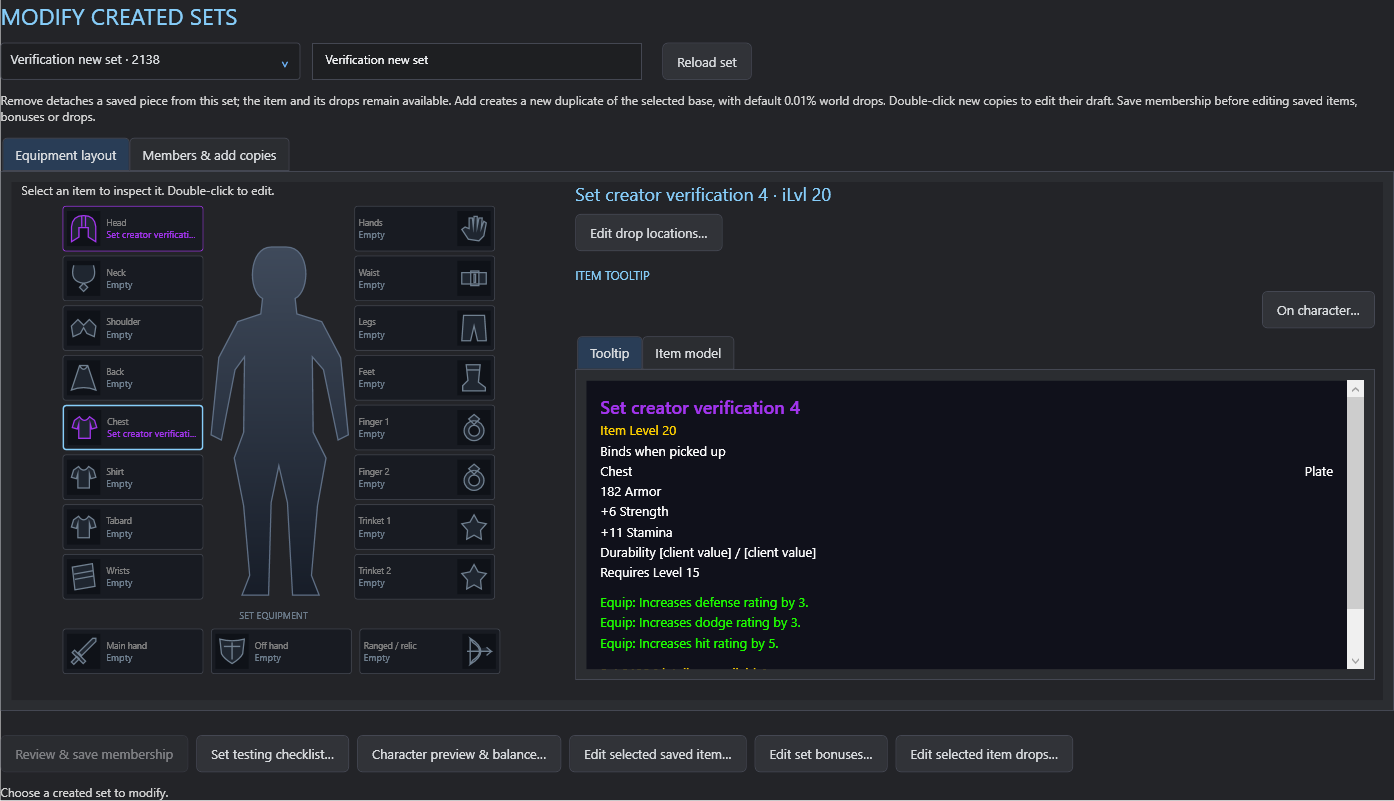
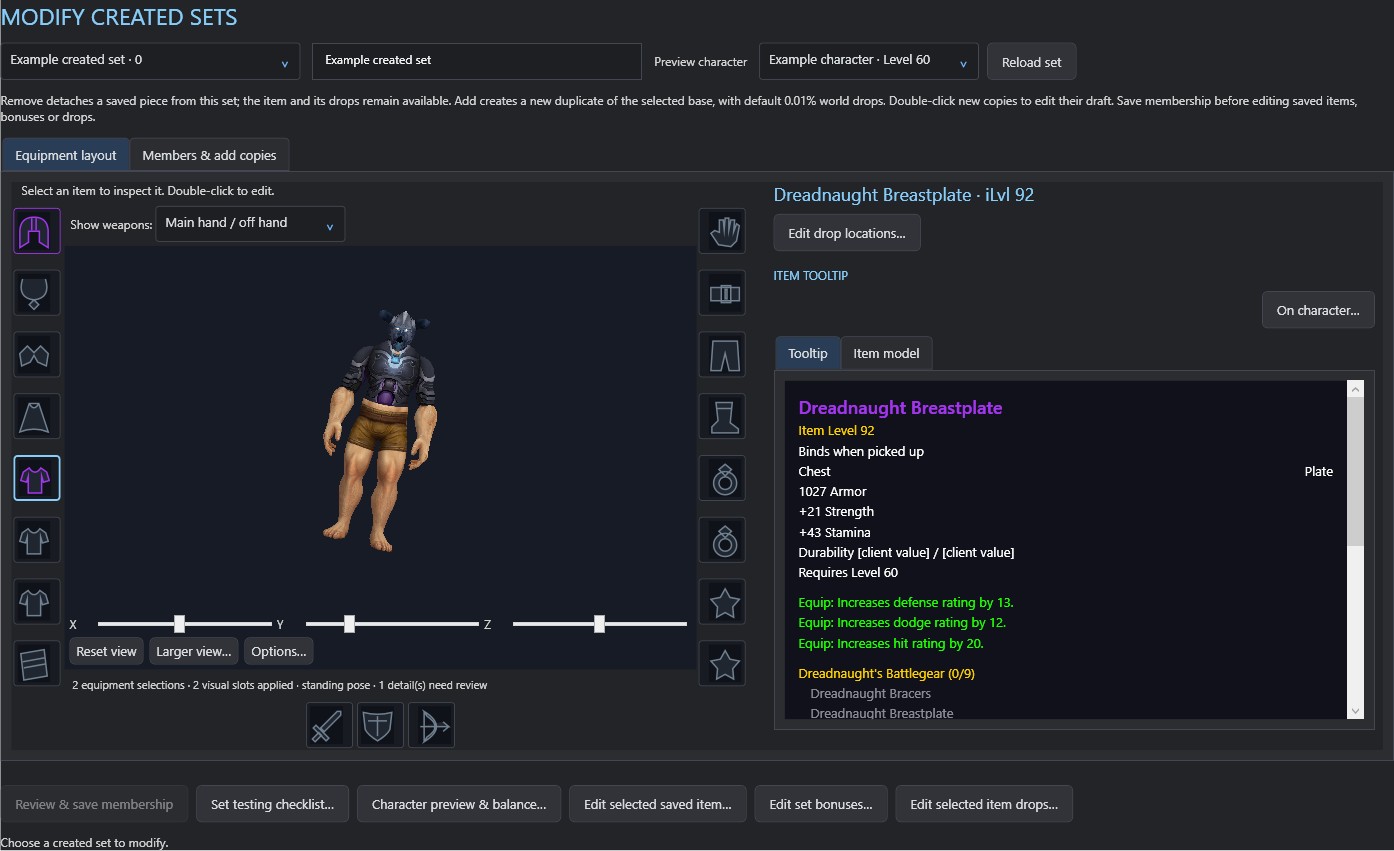
Show draft set members on a saved character in Modify Created Sets

diff --git a/src/WoWItemEditor/Views/Sets/CreatedSetsWindow.cs b/src/WoWItemEditor/Views/Sets/CreatedSetsWindow.cs
@@ -13,6 +13,14 @@ internal sealed record CreatedSetPiece(int ExistingId,CatalogItem Item,CloneBlue
 }
 internal sealed class CreatedSetsWindow : Window
 {
+    private readonly ComboBox previewCharacter=new(){Width=220,Margin=new Thickness(12,0,0,0)};
+    private bool choosingCharacter,closed;
+    private int characterRequest;
+    private readonly TaskCompletionSource ready=new();
+    internal Task Ready=>ready.Task;
+    internal Task ModelLoading=>equipment.ModelLoading;
+    internal CharacterScene? ModelScene=>equipment.ModelScene;
+    internal ModelCharacter? PreviewProfile=>equipment.PreviewProfile;
     private CatalogResult catalog;
     private ReferenceCatalog refs;
     private CreatedSetSession? session;
@@ -33,18 +41,30 @@ internal sealed class CreatedSetsWindow : Window
     private readonly int? initialSetId;
     internal bool Saved {get;private set;}
     internal bool FooterVisible=>save.TransformToAncestor((FrameworkElement)Content).TransformBounds(new Rect(save.RenderSize)).Bottom<=((FrameworkElement)Content).ActualHeight;
-    internal CreatedSetsWindow(CatalogResult catalog,ReferenceCatalog refs,CreatedSetSession? verification=null,int? initialSetId=null)
+    internal CreatedSetsWindow(CatalogResult catalog,ReferenceCatalog refs,CreatedSetSession? verification=null,int? initialSetId=null,CharacterInfo? selectedCharacter=null)
     {
-        this.catalog=catalog;this.refs=refs;this.initialSetId=initialSetId;kinds=new(catalog.Tooltips,true);Title="Modify created sets";Width=1450;Height=880;MinWidth=1100;MinHeight=700;Background=new SolidColorBrush(Color.FromRgb(35,36,40));WindowStartupLocation=WindowStartupLocation.CenterOwner;
+        equipment.EnableCharacterPreview();this.catalog=catalog;this.refs=refs;this.initialSetId=initialSetId;kinds=new(catalog.Tooltips,true);Title="Modify created sets";Width=1450;Height=930;MinWidth=1200;MinHeight=780;Background=new SolidColorBrush(Color.FromRgb(35,36,40));WindowStartupLocation=WindowStartupLocation.CenterOwner;
         var root=new DockPanel{Margin=new Thickness(20),Background=Background};Content=root;var heading=DesignerWindow.Text("MODIFY CREATED SETS",23);heading.Foreground=Brushes.LightSkyBlue;DockPanel.SetDock(heading,Dock.Top);root.Children.Add(heading);
-        var top=new WrapPanel{Margin=new Thickness(0,12,0,12)};DockPanel.SetDock(top,Dock.Top);root.Children.Add(top);top.Children.Add(sets);name.Margin=new Thickness(12,0,12,0);name.ToolTip="Set name";top.Children.Add(name);DesignerWindow.Button("Reload set",top).Click+=async(_,_)=>{if(ConfirmDiscard())await Select();};
+        var top=new WrapPanel{Margin=new Thickness(0,12,0,12)};DockPanel.SetDock(top,Dock.Top);root.Children.Add(top);top.Children.Add(sets);name.Margin=new Thickness(12,0,12,0);name.ToolTip="Set name";top.Children.Add(name);previewCharacter.ToolTip="Preview character · only this set’s equipment is shown";top.Children.Add(DesignerWindow.Text("Preview character",12));top.Children.Add(previewCharacter);previewCharacter.SelectionChanged+=async(_,_)=>{if(!choosingCharacter)await LoadPreviewCharacter();};DesignerWindow.Button("Reload set",top).Click+=async(_,_)=>{if(ConfirmDiscard())await Select();};
         var note=DesignerWindow.Text("Remove detaches a saved piece from this set; the item and its drops remain available. Add creates a new duplicate of the selected base, with default 0.01% world drops. Double-click new copies to edit their draft. Save membership before editing saved items, bonuses or drops.",12);DockPanel.SetDock(note,Dock.Top);note.Margin=new Thickness(0,0,0,12);root.Children.Add(note);
         DockPanel.SetDock(loadingProgress,Dock.Top);root.Children.Add(loadingProgress);DockPanel.SetDock(feedback,Dock.Bottom);root.Children.Add(feedback);var bottom=new WrapPanel{Margin=new Thickness(0,12,0,12)};DockPanel.SetDock(bottom,Dock.Bottom);root.Children.Add(bottom);bottom.Children.Add(save);DesignerWindow.Button("Set testing checklist…",bottom).Click+=async(_,_)=>{if(session is null||busy||!CanOpenEditor())return;await Run(async()=>{var review=new SetChecklistWindow(catalog,session.Id){Owner=this};review.ShowDialog();if(review.Saved){Saved=true;catalog=review.Catalog;refs=review.References??refs;await LoadSelected();Filter();}});};DesignerWindow.Button("Character preview & balance…",bottom).Click+=async(_,_)=>{if(session is null||busy||!CanOpenEditor())return;await Run(async()=>{var preview=new SetAnalysisWindow(catalog,session.Id){Owner=this};preview.ShowDialog();if(preview.Saved){Saved=true;catalog=preview.CatalogSnapshot;refs=await ReferenceCatalog.LoadAsync();await LoadSelected();Filter();}});};DesignerWindow.Button("Edit selected saved item…",bottom).Click+=async(_,_)=>await Edit(false);DesignerWindow.Button("Edit set bonuses…",bottom).Click+=async(_,_)=>await Edit(true);DesignerWindow.Button("Edit selected item drops…",bottom).Click+=async(_,_)=>await EditDrops();
-        root.Children.Add(body);var grid=new Grid();grid.ColumnDefinitions.Add(new());grid.ColumnDefinitions.Add(new(){Width=new GridLength(16)});grid.ColumnDefinitions.Add(new());body.Children.Add(views);views.Items.Add(new TabItem{Header="Equipment layout",Content=equipment});views.Items.Add(new TabItem{Header="Members & add copies",Content=grid});equipment.SelectionChanged+=row=>{if(row?.Key is CreatedSetPiece piece)members.SelectedItem=piece;};equipment.EditRequested+=async row=>{if(row.Key is CreatedSetPiece piece){members.SelectedItem=piece;await Edit(false);}};equipment.DropRequested+=async row=>{if(row.Key is CreatedSetPiece piece){members.SelectedItem=piece;await EditDrops();}};equipment.EmptySlotSelected+=target=>{slot.SelectedItem=slot.Items.Cast<FilterChoice>().FirstOrDefault(c=>c.Id==target)??slot.Items[0];views.SelectedIndex=1;};members.SelectionChanged+=(_,_)=>{if(members.SelectedItem is CreatedSetPiece piece){if(!Equals(equipment.Selection?.Key,piece))equipment.SelectKey(piece);TooltipView.Fill(memberPreview,ItemTooltip.Build(piece.Item,catalog.Tooltips,catalog.Items.ToDictionary(i=>i.Id)));ItemVisualPreview.Outfit(memberPreview,equipment.Equipped.ToDictionary(p=>p.Key,p=>p.Value.Item));}else TooltipView.Fill(memberPreview,[new("Select a member",ItemTooltip.Gray)]);};members.MouseDoubleClick+=async(_,_)=>await Edit(false);
+        root.Children.Add(body);var grid=new Grid();grid.ColumnDefinitions.Add(new());grid.ColumnDefinitions.Add(new(){Width=new GridLength(16)});grid.ColumnDefinitions.Add(new());body.Children.Add(views);views.Items.Add(new TabItem{Header="Equipment layout",Content=equipment});views.Items.Add(new TabItem{Header="Members & add copies",Content=grid});equipment.SelectionChanged+=row=>{if(row?.Key is CreatedSetPiece piece)members.SelectedItem=piece;};equipment.EditRequested+=async row=>{if(row.Key is CreatedSetPiece piece){members.SelectedItem=piece;await Edit(false);}};equipment.DropRequested+=async row=>{if(row.Key is CreatedSetPiece piece){members.SelectedItem=piece;await EditDrops();}};equipment.EmptySlotSelected+=target=>{slot.SelectedItem=slot.Items.Cast<FilterChoice>().FirstOrDefault(c=>c.Id==target)??slot.Items[0];views.SelectedIndex=1;};members.SelectionChanged+=(_,_)=>{if(members.SelectedItem is CreatedSetPiece piece){if(!Equals(equipment.Selection?.Key,piece))equipment.SelectKey(piece);TooltipView.Fill(memberPreview,ItemTooltip.Build(piece.Item,catalog.Tooltips,catalog.Items.ToDictionary(i=>i.Id)));ItemVisualPreview.Outfit(memberPreview,equipment.Equipped.ToDictionary(p=>p.Key,p=>p.Value.Item),equipment.PreviewProfile);}else TooltipView.Fill(memberPreview,[new("Select a member",ItemTooltip.Gray)]);};members.MouseDoubleClick+=async(_,_)=>await Edit(false);
         var left=new DockPanel();grid.Children.Add(left);var remove=new Button{Content="Remove selected member from draft",Margin=new Thickness(0,0,0,10)};DockPanel.SetDock(remove,Dock.Top);left.Children.Add(remove);remove.Click+=(_,_)=>{if(members.SelectedItem is CreatedSetPiece row){draft.Remove(row);Update();}};members.ItemsSource=draft;var memberSplit=new Grid();memberSplit.RowDefinitions.Add(new());memberSplit.RowDefinitions.Add(new());memberSplit.Children.Add(members);var memberVisual=DesignerWindow.Preview(memberPreview,"SELECTED SET MEMBER");Grid.SetRow(memberVisual,1);memberSplit.Children.Add(memberVisual);left.Children.Add(memberSplit);
-        var right=new DockPanel();Grid.SetColumn(right,2);grid.Children.Add(right);var filters=new WrapPanel{Margin=new Thickness(0,0,0,10)};DockPanel.SetDock(filters,Dock.Top);right.Children.Add(filters);search.ToolTip="Find base item by name or ID";filters.Children.Add(search);slot.Margin=new Thickness(10,0,0,0);filters.Children.Add(slot);filters.Children.Add(kinds);var add=new Button{Content="Add selected base as a new copy",Margin=new Thickness(0,0,0,10)};DockPanel.SetDock(add,Dock.Top);right.Children.Add(add);var basePanel=new StackPanel();var baseSplit=new Grid();baseSplit.RowDefinitions.Add(new());baseSplit.RowDefinitions.Add(new());baseSplit.Children.Add(bases);var baseVisual=DesignerWindow.Preview(basePanel,"BASE ITEM APPEARANCE");Grid.SetRow(baseVisual,1);baseSplit.Children.Add(baseVisual);right.Children.Add(baseSplit);bases.SelectionChanged+=(_,_)=>{if(bases.SelectedItem is CatalogItem item){TooltipView.Fill(basePanel,ItemTooltip.Build(item,catalog.Tooltips,catalog.Items.ToDictionary(i=>i.Id)));var worn=equipment.Equipped.ToDictionary(p=>p.Key,p=>p.Value.Item);int target=(slot.SelectedItem as FilterChoice)?.Id??-1;if(target<0)target=GearDesign.Targets(item).FirstOrDefault(-1);if(target>=0)worn[target]=item;ItemVisualPreview.Outfit(basePanel,worn);}else TooltipView.Fill(basePanel,[new("Select a base item",ItemTooltip.Gray)]);};add.Click+=async(_,_)=>{if(bases.SelectedItem is CatalogItem item&&session is not null)await Run(async()=>{var source=await ItemCloning.LoadAsync(item.Id);var copyDraft=new CatalogItem(new(source.Item.Current.Fields,StringComparer.OrdinalIgnoreCase){["ItemSet"]=session.Id.ToString()});var piece=new CreatedSetPiece(0,copyDraft,source);draft.Add(piece);Update();equipment.SelectKey(piece);views.SelectedIndex=0;feedback.Text="New copy added to draft. Its source remains unchanged.";});};
-        slot.ItemsSource=new[]{new FilterChoice(-1,"All equipment slots")}.Concat(GearDesign.EquipmentSlots.Where(p=>p.Key is not (3 or 18)).Select(p=>new FilterChoice(p.Key,p.Value))).ToArray();slot.SelectedIndex=0;search.TextChanged+=(_,_)=>Filter();slot.SelectionChanged+=(_,_)=>Filter();kinds.Changed+=Filter;name.TextChanged+=(_,_)=>Update();sets.SelectionChanged+=async(_,_)=>{if(loading)return;if(!ConfirmDiscard()){loading=true;sets.SelectedItem=sets.Items.Cast<ContentChoice>().FirstOrDefault(s=>s.Id==session?.Id);loading=false;return;}await Select();};save.Click+=async(_,_)=>await Save();Loaded+=async(_,_)=>{if(verification is null)await LoadList();else{loading=true;sets.ItemsSource=new[]{new ContentChoice(verification.Id,verification.Name)};sets.SelectedIndex=0;loading=false;session=verification;foreach(var item in session.Members.Values)draft.Add(new(item.Item.Current.Id,item.Item.Current,null));name.Text=session.Name;Update();}};Closing+=(_,e)=>{if(busy||!ConfirmDiscard())e.Cancel=true;};Filter();
+        var right=new DockPanel();Grid.SetColumn(right,2);grid.Children.Add(right);var filters=new WrapPanel{Margin=new Thickness(0,0,0,10)};DockPanel.SetDock(filters,Dock.Top);right.Children.Add(filters);search.ToolTip="Find base item by name or ID";filters.Children.Add(search);slot.Margin=new Thickness(10,0,0,0);filters.Children.Add(slot);filters.Children.Add(kinds);var add=new Button{Content="Add selected base as a new copy",Margin=new Thickness(0,0,0,10)};DockPanel.SetDock(add,Dock.Top);right.Children.Add(add);var basePanel=new StackPanel();var baseSplit=new Grid();baseSplit.RowDefinitions.Add(new());baseSplit.RowDefinitions.Add(new());baseSplit.Children.Add(bases);var baseVisual=DesignerWindow.Preview(basePanel,"BASE ITEM APPEARANCE");Grid.SetRow(baseVisual,1);baseSplit.Children.Add(baseVisual);right.Children.Add(baseSplit);bases.SelectionChanged+=(_,_)=>{if(bases.SelectedItem is CatalogItem item){TooltipView.Fill(basePanel,ItemTooltip.Build(item,catalog.Tooltips,catalog.Items.ToDictionary(i=>i.Id)));var worn=equipment.Equipped.ToDictionary(p=>p.Key,p=>p.Value.Item);int target=(slot.SelectedItem as FilterChoice)?.Id??-1;if(target<0)target=GearDesign.Targets(item).FirstOrDefault(-1);if(target>=0)worn[target]=item;ItemVisualPreview.Outfit(basePanel,worn,equipment.PreviewProfile);}else TooltipView.Fill(basePanel,[new("Select a base item",ItemTooltip.Gray)]);};add.Click+=async(_,_)=>{if(bases.SelectedItem is CatalogItem item&&session is not null)await Run(async()=>{var source=await ItemCloning.LoadAsync(item.Id);var copyDraft=new CatalogItem(new(source.Item.Current.Fields,StringComparer.OrdinalIgnoreCase){["ItemSet"]=session.Id.ToString()});var piece=new CreatedSetPiece(0,copyDraft,source);draft.Add(piece);Update();equipment.SelectKey(piece);views.SelectedIndex=0;feedback.Text="New copy added to draft. Its source remains unchanged.";});};
+        slot.ItemsSource=new[]{new FilterChoice(-1,"All equipment slots")}.Concat(GearDesign.EquipmentSlots.Where(p=>p.Key is not (3 or 18)).Select(p=>new FilterChoice(p.Key,p.Value))).ToArray();slot.SelectedIndex=0;search.TextChanged+=(_,_)=>Filter();slot.SelectionChanged+=(_,_)=>Filter();kinds.Changed+=Filter;name.TextChanged+=(_,_)=>Update();sets.SelectionChanged+=async(_,_)=>{if(loading)return;if(!ConfirmDiscard()){loading=true;sets.SelectedItem=sets.Items.Cast<ContentChoice>().FirstOrDefault(s=>s.Id==session?.Id);loading=false;return;}await Select();};save.Click+=async(_,_)=>await Save();Loaded+=async(_,_)=>{var preview=LoadPreviewCharacters(selectedCharacter);if(verification is null)await LoadList();else{loading=true;sets.ItemsSource=new[]{new ContentChoice(verification.Id,verification.Name)};sets.SelectedIndex=0;loading=false;session=verification;foreach(var item in session.Members.Values)draft.Add(new(item.Item.Current.Id,item.Item.Current,null));name.Text=session.Name;Update();}await preview;ready.TrySetResult();};Closing+=(_,e)=>{if(busy||!ConfirmDiscard())e.Cancel=true;else closed=true;};Filter();
     }
+    private async Task LoadPreviewCharacters(CharacterInfo? initial)
+    {
+        try{var characters=await CharacterRepository.ListAsync();if(closed)return;choosingCharacter=true;previewCharacter.ItemsSource=characters;previewCharacter.SelectedItem=characters.FirstOrDefault(c=>c.Guid==initial?.Guid)??characters.FirstOrDefault();choosingCharacter=false;await LoadPreviewCharacter();}catch(Exception ex){choosingCharacter=false;equipment.PreviewPending("Could not load characters: "+ex.Message);}
+    }
+    private async Task LoadPreviewCharacter()
+    {
+        int token=++characterRequest;equipment.PreviewPending("Loading selected character appearance…");if(previewCharacter.SelectedItem is not CharacterInfo selected){equipment.PreviewPending("No saved characters available. Set editing still works.");return;}
+        try{var profile=await ModelCharacterRepository.Load(selected);if(token!=characterRequest||closed)return;equipment.SetPreviewCharacter(profile);}catch(Exception ex){if(token==characterRequest&&!closed)equipment.PreviewPending("Appearance unavailable: "+ex.Message);}
+    }
+    internal void UseDocumentationPreview(){choosingCharacter=true;previewCharacter.ItemsSource=new[]{new CharacterInfo(0,"Example character",60,1,false,0)};previewCharacter.SelectedIndex=0;choosingCharacter=false;equipment.SetPreviewCharacter(new(1,0,"Example character"));}
+    internal void RemovePreviewMember(int id){var row=draft.FirstOrDefault(p=>p.ExistingId==id);if(row is not null){draft.Remove(row);Update();}}
+    internal void RestorePreviewMembers(){if(session is null)return;draft.Clear();foreach(var member in session.Members.Values)draft.Add(new(member.Item.Current.Id,member.Item.Current,null));Update();}
     private bool Dirty=>session is not null&&(name.Text.Trim()!=session.Name||draft.Any(p=>p.ExistingId==0)||!draft.Where(p=>p.ExistingId>0).Select(p=>p.ExistingId).Order().SequenceEqual(session.Members.Keys.Order()));
     private bool ConfirmDiscard()=>!Dirty||MessageBox.Show(this,"Discard unsaved membership changes?","Unsaved set draft",MessageBoxButton.YesNo,MessageBoxImage.Question)==MessageBoxResult.Yes;
     private async Task Run(Func<Task> work){if(busy)return;busy=true;body.IsEnabled=sets.IsEnabled=save.IsEnabled=false;loadingProgress.Visibility=Visibility.Visible;feedback.Text="Loading set data… Please wait.";try{await System.Windows.Threading.Dispatcher.Yield(System.Windows.Threading.DispatcherPriority.Render);await work();}catch(Exception ex){feedback.Text=ex.Message;}finally{busy=false;loadingProgress.Visibility=Visibility.Collapsed;body.IsEnabled=sets.IsEnabled=true;Update();}}

diff --git a/tests/WoWItemEditor.Verification/MainWindow.SetCreatorVerification.cs b/tests/WoWItemEditor.Verification/MainWindow.SetCreatorVerification.cs
@@ -30,12 +30,13 @@ public partial class MainWindow
             var pendingBoss=world.Bosses.First(b=>b.CreatureId==11502);var pendingBossPlan=BossDrops.Plan(world,sourceA.Item.Current,[pendingBoss.Key],10m);
             var oldDrops=await WorldDrops.Capture(db,tx,new([createdItems[0]]));string membershipId=await CreatedSets.SaveCore(db,tx,membership,"Revised verification set",[createdItems[1]],[sourceA],reviewedPlans:[pendingBossPlan],additionDrafts:[new(new(sourceA.Item.Current.Fields,StringComparer.OrdinalIgnoreCase){["Display"]="Edited pending member copy"})]);var membershipOp=await ContentEditing.ReadAsync(db,tx,membershipId);var membershipAfter=JsonSerializer.Deserialize<ItemSnapshot>(membershipOp.After)!;var newMember=int.Parse(membershipAfter.Tables["new_set"].Single()["ItemID2"]!);Assert(newMember!=22416&&!createdItems.Contains(newMember),"Adding a member always allocates a fresh duplicate");Assert(membershipAfter.Tables[$"piece_{newMember}_item_sparse"].Single()["Display"]=="Edited pending member copy","Pending member item edits are saved on the new copy");Assert(membershipAfter.Tables["world_loot"].Count==1&&membershipAfter.Tables["world_loot"].Single()["Entry"]==pendingBoss.LootId.ToString()&&membershipAfter.Tables["world_loot"].Single()["Chance"]=="10","Pending new member saves only selected boss drops, with no world drops");Assert((await ItemEditing.LoadAsync(createdItems[0],db,tx)).Current.Number("ItemSet")==0,"Removing a member preserves its item and clears set assignment");Assert(HistoryActions.Canonical(new(oldDrops))==HistoryActions.Canonical(new(await WorldDrops.Capture(db,tx,new([createdItems[0]])))),"Removing a member preserves its loot");Assert(membershipAfter.Tables["new_set"].Single()["Name"]=="Revised verification set","Created set rename persists");
             bool membershipStale=false;try{await CreatedSets.SaveCore(db,tx,membership,"Stale name",[createdItems[1]],[sourceA]);}catch(InvalidOperationException ex)when(ex.Message.StartsWith("Conflict:")){membershipStale=true;}Assert(membershipStale,"Stale membership saves are rejected");await ContentEditing.ToggleCoreAsync(db,tx,membershipOp);Assert((await ItemEditing.LoadAsync(createdItems[0],db,tx)).Current.Number("ItemSet")==createdSet,"Membership revert reattaches removed item");var membershipInactive=await ContentEditing.ReadAsync(db,tx,membershipId);await ContentEditing.ToggleCoreAsync(db,tx,membershipInactive);Assert((await ItemEditing.LoadAsync(newMember,db,tx)).Current.Number("ItemSet")==createdSet,"Membership reapply restores the same added copy");
-            var modifyWindow=new CreatedSetsWindow(catalog,refs,membership){Owner=this};modifyWindow.Show();await RenderEditorWindow(modifyWindow,"modify-created-sets-preview");modifyWindow.Close();
+            var modifyWindow=new CreatedSetsWindow(catalog,refs,membership){Owner=this};modifyWindow.Show();await modifyWindow.Ready;await modifyWindow.ModelLoading;if(modifyWindow.PreviewProfile is not null){Assert(modifyWindow.ModelScene?.Equipped==membership.Members.Count,"Modify set renders only its member equipment");modifyWindow.RemovePreviewMember(membership.Members.Keys.First());await modifyWindow.ModelLoading;Assert(modifyWindow.ModelScene?.Equipped==membership.Members.Count-1,"Removing a member updates the 3D model");modifyWindow.RestorePreviewMembers();await modifyWindow.ModelLoading;Assert(modifyWindow.ModelScene?.Equipped==membership.Members.Count,"Restoring members updates the 3D model");}await RenderEditorWindow(modifyWindow,"modify-created-sets-preview");modifyWindow.Close();
             bool conflict=false;try{await ContentEditing.ToggleCoreAsync(db,tx,active);}catch(InvalidOperationException ex)when(ex.Message.StartsWith("Conflict:")){conflict=true;}Assert(conflict,"Old creation cannot overwrite later edits to a copy");
         }finally{await tx.RollbackAsync();}}finally{using var release=new MySqlCommand("SELECT RELEASE_LOCK('anocore_studio_forge')",db);await release.ExecuteScalarAsync();}
         Assert(HistoryActions.Canonical(await ItemCloning.CaptureAsync(db,null,22416,sourceA.SourceScope))==HistoryActions.Canonical(sourceA.SourceExpected),"Set tests left source data unchanged");
         var pieceEditor=new ItemEditorWindow(catalog,22416,draft:first.Draft){Owner=this};pieceEditor.Show();await pieceEditor.SelectAsync(22416);pieceEditor.SetDraftValue("Display","Draft-only renamed copy");Assert(pieceEditor.AcceptSetDraft().Name=="Draft-only renamed copy","Set-piece editor applies to a pending copy");pieceEditor.ResetDraft();pieceEditor.Close();Assert(HistoryActions.Canonical(await ItemCloning.CaptureAsync(db,null,22416,sourceA.SourceScope))==HistoryActions.Canonical(sourceA.SourceExpected),"Applying a piece draft does not write its base item");
         var previewHero=(await CharacterRepository.ListAsync()).FirstOrDefault();var window=new SetCreatorWindow(catalog,refs,previewHero){Owner=this};window.Show();await window.Ready;await window.ModelLoading;if(previewHero is not null){Assert(window.ModelScene is {Equipped:0},"An empty set renders the selected character with no saved equipment");var expectedProfile=await ModelCharacterRepository.Load(previewHero);Assert(window.PreviewProfile==expectedProfile||window.PreviewProfile?.Name==expectedProfile.Name&&window.PreviewProfile.Race==expectedProfile.Race&&window.PreviewProfile.Sex==expectedProfile.Sex&&window.ModelScene!.Customizations.All(p=>window.PreviewProfile!.Choices?.GetValueOrDefault(p.Key,p.Value)==p.Value),"Set creator uses selected saved character appearance");}window.SetVerificationName("Vanguard of the Dawn");await window.AddPiece(22416,4);await window.AddPiece(22418,0);window.AddVerificationBonus(bonuses[0]);await window.ModelLoading;if(previewHero is not null)Assert(window.ModelScene is {Equipped:2},"Added set copies appear on the selected character");await RenderEditorWindow(window,"set-creator-items-preview");window.SelectVerificationTab(1);await RenderEditorWindow(window,"set-creator-bonuses-preview");window.SelectVerificationTab(2);await RenderEditorWindow(window,"set-creator-drops-preview");window.SelectVerificationTab(0);window.UseDocumentationPreview();await window.ModelLoading;await RenderEditorWindow(window,"set-creator-documentation-preview");window.RemovePreviewPiece(4);await window.ModelLoading;if(previewHero is not null)Assert(window.ModelScene is {Equipped:1},"Removing a set piece removes it from the model");window.RemovePreviewPiece(0);await window.ModelLoading;if(previewHero is not null)Assert(window.ModelScene is {Equipped:0},"Clearing the set returns to an unequipped character");await RenderEditorWindow(window,"set-creator-empty-character-preview");window.DiscardVerification();window.Close();
-        await File.WriteAllTextAsync("artifacts/set-creator-verification.json",JsonSerializer.Serialize(new{createdSet,createdItems,eligibleCreatures=first.Drops.Targets.Count,lootRows,checks="Selected saved character appearance; empty draft has no saved gear; adding and removing copies updates 3D equipment (0,2,1,0); original sources preserved; new set and duplicate IDs; private bonus amounts; terrain-derived zones; level-appropriate outdoor loot, no Durotar/bosses/instances; 0.01% per piece; atomic creation; group revert/reapply; edited levels update loot and undo/redo restores it; later-edit conflicts; modify created set membership, duplicate additions, detach removals preserving drops, rename, stale save, revert/reapply; all game test writes rolled back"},new JsonSerializerOptions{WriteIndented=true}));
+        var documentationSession=new CreatedSetSession(0,"Example created set",new(){[22416]=sourceA,[22418]=sourceB},new(0,new(),[],new([])),new(new()),ContentEditing.Fingerprint());var documentationWindow=new CreatedSetsWindow(catalog,refs,documentationSession){Owner=this};documentationWindow.Show();await documentationWindow.Ready;documentationWindow.UseDocumentationPreview();await documentationWindow.ModelLoading;Assert(documentationWindow.ModelScene?.Equipped==2,"Documentation fixture renders two native source appearances");await RenderEditorWindow(documentationWindow,"modify-created-sets-documentation-preview");documentationWindow.Close();
+        await File.WriteAllTextAsync("artifacts/set-creator-verification.json",JsonSerializer.Serialize(new{createdSet,createdItems,eligibleCreatures=first.Drops.Targets.Count,lootRows,checks="Selected saved character appearance; empty draft has no saved gear; adding and removing copies updates 3D equipment (0,2,1,0); original sources preserved; new set and duplicate IDs; private bonus amounts; terrain-derived zones; level-appropriate outdoor loot, no Durotar/bosses/instances; 0.01% per piece; atomic creation; group revert/reapply; edited levels update loot and undo/redo restores it; later-edit conflicts; modify created set 3D member preview and removal/restoration; modify created set membership, duplicate additions, detach removals preserving drops, rename, stale save, revert/reapply; all game test writes rolled back"},new JsonSerializerOptions{WriteIndented=true}));
     }
 }

diff --git a/src/WoWItemEditor/Views/Shell/MainWindow.Editors.cs b/src/WoWItemEditor/Views/Shell/MainWindow.Editors.cs
@@ -6,7 +6,7 @@ public partial class MainWindow
     private bool editorLoading;
     private async Task EditCharacterItem(int id){if(loadedCatalog is null||editorLoading)return;editorLoading=true;try{var editor=new ItemEditorWindow(loadedCatalog,id){Owner=this};editor.ShowDialog();if(editor.Saved)await LoadCatalog();}catch(Exception ex){Status.Text="Could not edit item: "+ex.Message;}finally{editorLoading=false;}}
     private async void OpenSetAnalysis(object sender,RoutedEventArgs e){if(loadedCatalog is null||editorLoading)return;editorLoading=true;try{int? set=(ItemsGrid.SelectedItem as CatalogItem)?.Number("ItemSet");var preview=new SetAnalysisWindow(loadedCatalog,set>0?set:null){Owner=this};preview.ShowDialog();if(preview.Saved){InvalidateReferences();await LoadCatalog();}}catch(Exception ex){Status.Text=ex.Message;}finally{editorLoading=false;}}
-    private async void OpenCreatedSets(object sender,RoutedEventArgs e){if(loadedCatalog is null||editorLoading)return;editorLoading=true;try{Status.Text="Loading created sets… Preparing spells and set data.";await System.Windows.Threading.Dispatcher.Yield(System.Windows.Threading.DispatcherPriority.Render);var window=new CreatedSetsWindow(loadedCatalog,await EditorReferences()){Owner=this};window.ShowDialog();if(window.Saved){InvalidateReferences();await LoadCatalog();}}catch(Exception ex){Status.Text="Could not open created sets: "+ex.Message;}finally{editorLoading=false;}}
+    private async void OpenCreatedSets(object sender,RoutedEventArgs e){if(loadedCatalog is null||editorLoading)return;editorLoading=true;try{Status.Text="Loading created sets… Preparing spells and set data.";await System.Windows.Threading.Dispatcher.Yield(System.Windows.Threading.DispatcherPriority.Render);var window=new CreatedSetsWindow(loadedCatalog,await EditorReferences(),selectedCharacter:CharacterPicker.SelectedItem as CharacterInfo){Owner=this};window.ShowDialog();if(window.Saved){InvalidateReferences();await LoadCatalog();}}catch(Exception ex){Status.Text="Could not open created sets: "+ex.Message;}finally{editorLoading=false;}}
     private async void OpenSetCreator(object sender,RoutedEventArgs e)
     {
         if(loadedCatalog is null||editorLoading)return;editorLoading=true;try{var creator=new SetCreatorWindow(loadedCatalog,await EditorReferences(),CharacterPicker.SelectedItem as CharacterInfo){Owner=this};creator.ShowDialog();if(creator.Result is {} result){InvalidateReferences();await LoadCatalog();var designer=new DesignerWindow(loadedCatalog!,result.Items[0],2){Owner=this};designer.SelectCreatedSet(result.SetId);designer.ShowDialog();if(designer.Saved)await LoadCatalog();}}catch(Exception ex){Status.Text="Could not open set creator: "+ex.Message;}finally{editorLoading=false;}

diff --git a/src/WoWItemEditor/Views/Sets/SetChecklistWindow.cs b/src/WoWItemEditor/Views/Sets/SetChecklistWindow.cs
@@ -54,7 +54,7 @@ internal sealed class SetChecklistWindow : Window
                 if(changed){References=await ReferenceCatalog.LoadAsync();Catalog=Catalog with{Tooltips=ContentEditorWindow.PreviewData(Catalog.Tooltips,References.Data)};if(row.Action=="Bonus"){var session=await ContentEditing.LoadAsync("Set",setId,Catalog.Tooltips.Sets[setId].Members.Length);Catalog.Tooltips.Sets[setId]=Catalog.Tooltips.Sets[setId] with{Bonuses=session.Initial.Select(b=>new SetBonus(b.Pieces,b.SpellId,b.Specialization,b.Trait)).ToArray()};}else{var session=await ContentEditing.LoadAsync("Proc",row.ItemId,17);Catalog.Tooltips.ItemSpells[row.ItemId]=session.Initial.Select(p=>new ItemSpellInfo(p.SpellId,p.Trigger,p.Cooldown)).ToList();}}
             }else if(row.Action=="Membership"){
                 if(!(await ContentEditing.ListAsync()).Any(o=>o.Kind=="NewSet"&&o.EntityId==setId&&o.Active)){status.Text="Native set membership is read-only. Inspect the member item definitions; created sets can be changed in Modify created sets.";return;}
-                References??=await ReferenceCatalog.LoadAsync();var previous=await CreatedSets.Load(setId);var editor=new CreatedSetsWindow(Catalog,References,initialSetId:setId){Owner=this};editor.ShowDialog();changed=editor.Saved;Saved|=changed;if(changed){References=await ReferenceCatalog.LoadAsync();Catalog=Catalog with{Tooltips=ContentEditorWindow.PreviewData(Catalog.Tooltips,References.Data)};Catalog=SetCatalogRefresh.CreatedSet(Catalog,await CreatedSets.Load(setId,previous),previous,References);}
+                References??=await ReferenceCatalog.LoadAsync();var previous=await CreatedSets.Load(setId);var editor=new CreatedSetsWindow(Catalog,References,initialSetId:setId,selectedCharacter:character?.Character){Owner=this};editor.ShowDialog();changed=editor.Saved;Saved|=changed;if(changed){References=await ReferenceCatalog.LoadAsync();Catalog=Catalog with{Tooltips=ContentEditorWindow.PreviewData(Catalog.Tooltips,References.Data)};Catalog=SetCatalogRefresh.CreatedSet(Catalog,await CreatedSets.Load(setId,previous),previous,References);}
             }else {var preview=new SetAnalysisWindow(Catalog,setId){Owner=this};preview.ShowDialog();changed=preview.Saved;Saved|=changed;if(changed){Catalog=preview.CatalogSnapshot;References=preview.EditedReferences??References;}}
             Saved|=changed;
         }catch(Exception ex){status.Text=ex.Message;}finally{busy=false;open.IsEnabled=true;}

diff --git a/docs/guides/gear-sets.md b/docs/guides/gear-sets.md
@@ -39,13 +39,13 @@ Rotate the model with the mouse or axis sliders, use **Larger view…** for more
 
 ## Modify a saved created set
 
-1. Open **Modify created sets** and choose the set. A loading bar and member-by-member message show what is being read.
-2. Use **Equipment layout** to inspect/select members. In **Members & add copies**, add a base as a new duplicate or remove a member from the draft. Removing a saved member detaches it from the set; its item and existing drops are preserved.
+1. Open **Modify created sets** and choose the set. A loading bar and member-by-member message show what is being read. **Preview character** uses your selected saved character; choose another character to inspect how the same set fits that body.
+2. **Equipment layout** shows the character in 3D wearing only the set's current draft members, with equipment slots around the model. Current inventory gear is not imported; an empty draft is unequipped. Adding, removing or editing members updates this preview. Rotate with the mouse or sliders, use **Larger view…** for detail, and switch melee/ranged display as needed. Select a slot for its tooltip and double-click to edit. In **Members & add copies**, add a base as a new duplicate or remove a member from the draft. Removing a saved member detaches it from the set; its item and existing drops are preserved.
 3. Choose **Review & save membership** to persist membership changes before opening saved-item, bonus or drop editors.
 4. Use **Edit selected saved item…**, **Edit set bonuses…** or **Edit selected item drops…** for further changes. Double-click a saved equipment piece to open its item editor.
 5. Use **Character preview & balance…** and **Set testing checklist…** to review the complete result. **Reload set** reloads the selected set and can discard pending membership edits.
 
-![Modify-created-sets equipment view](../screenshots/created-sets.png)
+![Modify Created Sets with a live 3D character and set equipment](../screenshots/created-sets.png)
 
 Only active sets created by this editor appear in Modify created sets. Use the separate Set bonuses editor to change bonuses on an existing native set. Changes to a saved item are shared by every server instance of that item ID.
 
